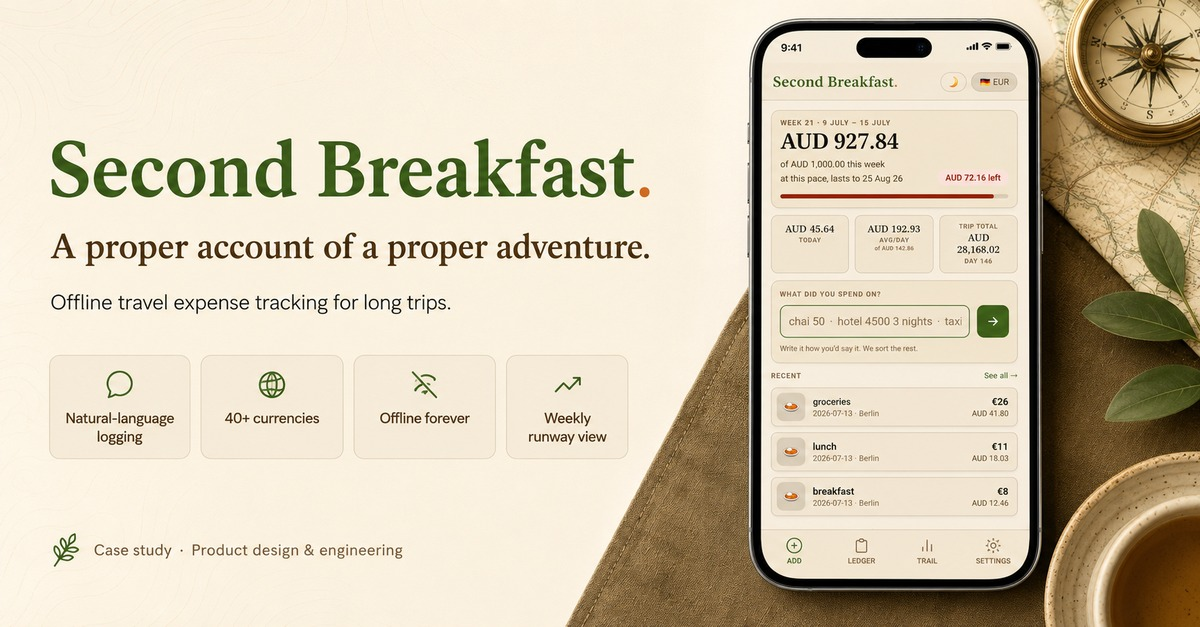
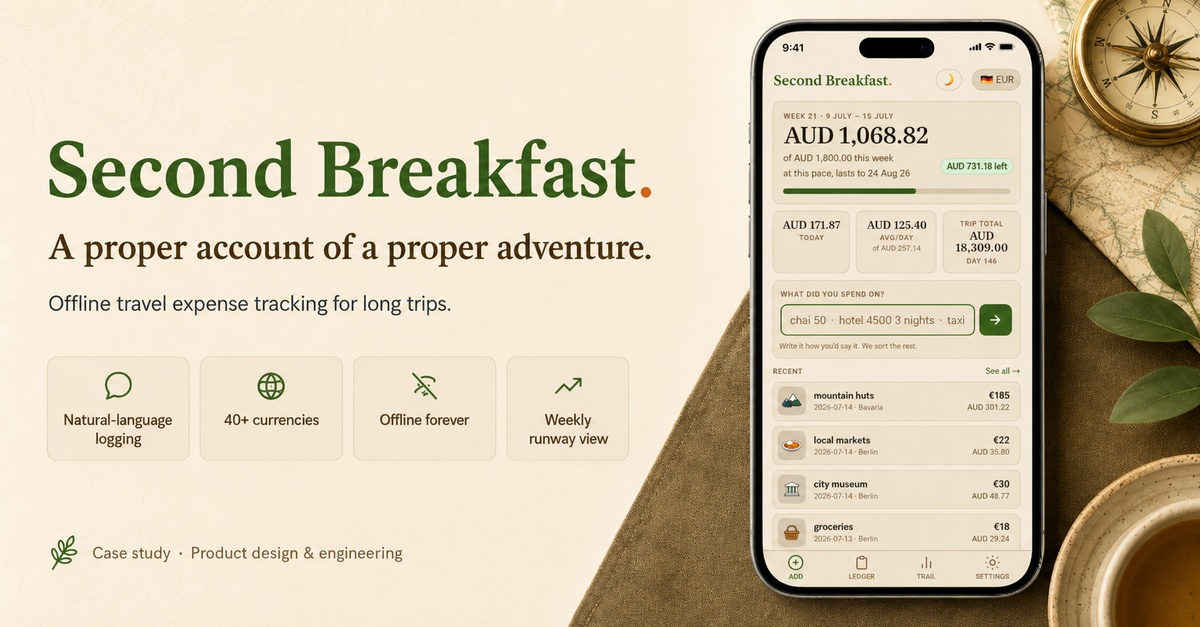
Add files via upload

diff --git a/second-breakfast-case-study.html b/second-breakfast-case-study.html
@@ -3,13 +3,13 @@
 <head>
 <meta charset="UTF-8">
 <meta name="viewport" content="width=device-width, initial-scale=1.0">
-<title>Second Breakfast · Case Study</title>
+<title>Second Breakfast: The Travel Ledger I Built for the Road</title>
 
-<meta name="description" content="Second Breakfast is an offline-first travel expense tracker for long trips, with natural-language logging, 40+ currencies and a weekly runway view.">
+<meta name="description" content="Built somewhere between one border and the next, Second Breakfast keeps an honest account of what was spent, where it went, and whether the adventure can continue.">
 <meta property="og:type" content="website">
 <meta property="og:site_name" content="Robert Voyzey">
-<meta property="og:title" content="Second Breakfast — Travel Expense Tracker Case Study">
-<meta property="og:description" content="An offline-first travel expense tracker for long trips, built around natural-language logging, multiple currencies and an honest view of whether your money will last.">
+<meta property="og:title" content="Second Breakfast: The Travel Ledger I Built for the Road">
+<meta property="og:description" content="Built somewhere between one border and the next, Second Breakfast keeps an honest account of what was spent, where it went, and whether the adventure can continue.">
 <meta property="og:url" content="https://robvoyzey-pm.github.io/second-breakfast/second-breakfast-case-study.html">
 <meta property="og:image" content="https://robvoyzey-pm.github.io/second-breakfast/second-breakfast-linkedin-preview.jpg">
 <meta property="og:image:secure_url" content="https://robvoyzey-pm.github.io/second-breakfast/second-breakfast-linkedin-preview.jpg">
@@ -18,8 +18,8 @@
 <meta property="og:image:height" content="627">
 <meta property="og:image:alt" content="Second Breakfast travel expense tracker case study">
 <meta name="twitter:card" content="summary_large_image">
-<meta name="twitter:title" content="Second Breakfast — Travel Expense Tracker Case Study">
-<meta name="twitter:description" content="An offline-first travel expense tracker for long trips.">
+<meta name="twitter:title" content="Second Breakfast: The Travel Ledger I Built for the Road">
+<meta name="twitter:description" content="Built somewhere between one border and the next, Second Breakfast keeps an honest account of what was spent, where it went, and whether the adventure can continue.">
 <meta name="twitter:image" content="https://robvoyzey-pm.github.io/second-breakfast/second-breakfast-linkedin-preview.jpg">
 
 <style>